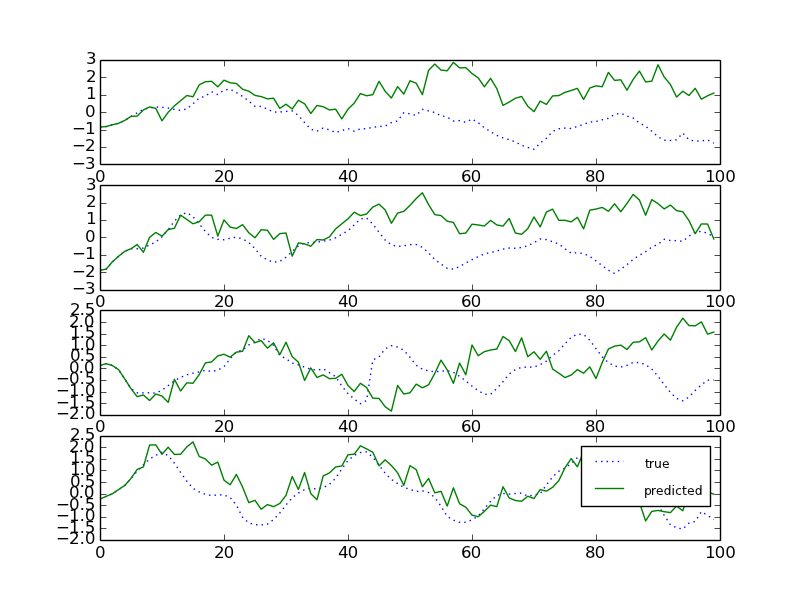
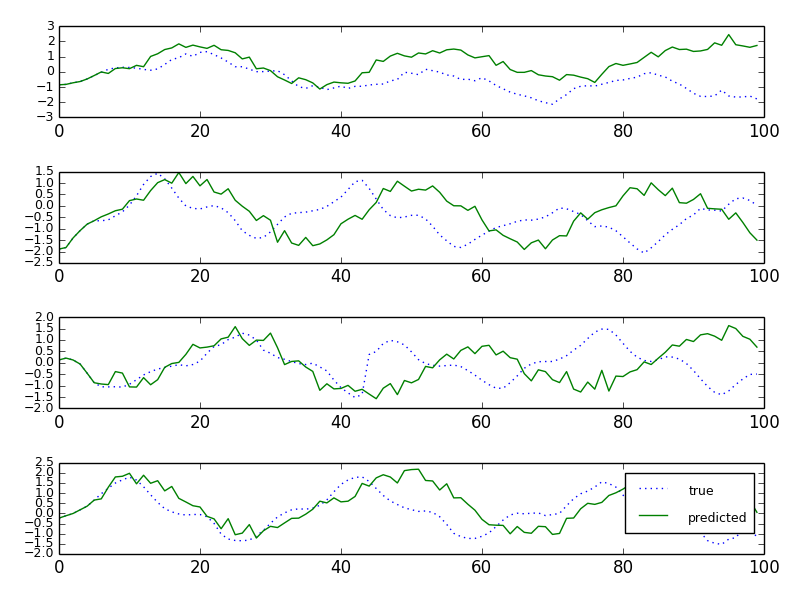
import README.md

Changed region(s): [[0.0312, 0.03, 0.9688, 0.96], [0.625, 0.81, 0.6875, 0.84], [0.1875, 0.81, 0.25, 0.84]]

diff --git a/crbm.py b/crbm.py
@@ -335,7 +335,7 @@ class CRBM(object):
 
 
 def train_crbm(learning_rate=1e-3, training_epochs=300,
-             dataset='../data/motion.mat', batch_size=100,
+             dataset='./data/motion.mat', batch_size=100,
              n_hidden=100, delay=6):
     """
     Demonstrate how to train a CRBM.
@@ -463,11 +463,13 @@ def plot(data_idx, bd, generated_series):
                  label='true', linestyle=':')
         plt.plot(generated_series[i, :n_samples, 1], label='predicted',
                  linestyle='-')
+        plt.yticks(fontsize=9)
 
     leg = plt.legend()
     ltext = leg.get_texts()  # all the text.Text instance in the legend
     plt.setp(ltext, fontsize=9)
 
+    plt.tight_layout()
     plt.savefig('result.png')
 
 if __name__ == '__main__':

diff --git a/motion.py b/motion.py
@@ -3,7 +3,7 @@ See: http://www.uoguelph.ca/~gwtaylor/publications/nips2006mhmublv/code.html
 
 Download:
 http://www.uoguelph.ca/~gwtaylor/publications/nips2006mhmublv/motion.mat
-Place in ../data
+Place in ./data
 
 Data originally from Eugene Hsu, MIT.
 http://people.csail.mit.edu/ehsu/work/sig05stf/
@@ -89,4 +89,4 @@ def load_data(filename):
     return shared_x, seqlen, data_mean, data_std
 
 if __name__ == "__main__":
-    batchdata, seqlen, data_mean, data_std = load_data('../data/motion.mat')
+    batchdata, seqlen, data_mean, data_std = load_data('./data/motion.mat')

diff --git a/README.md b/README.md
@@ -1,0 +1,3 @@
+Conditional Restricted Boltzmann Mahcine, forked from https://gist.github.com/gwtaylor/2505670.
+
+![result](https://raw.githubusercontent.com/ktaneishi/crbm/master/result.png)
